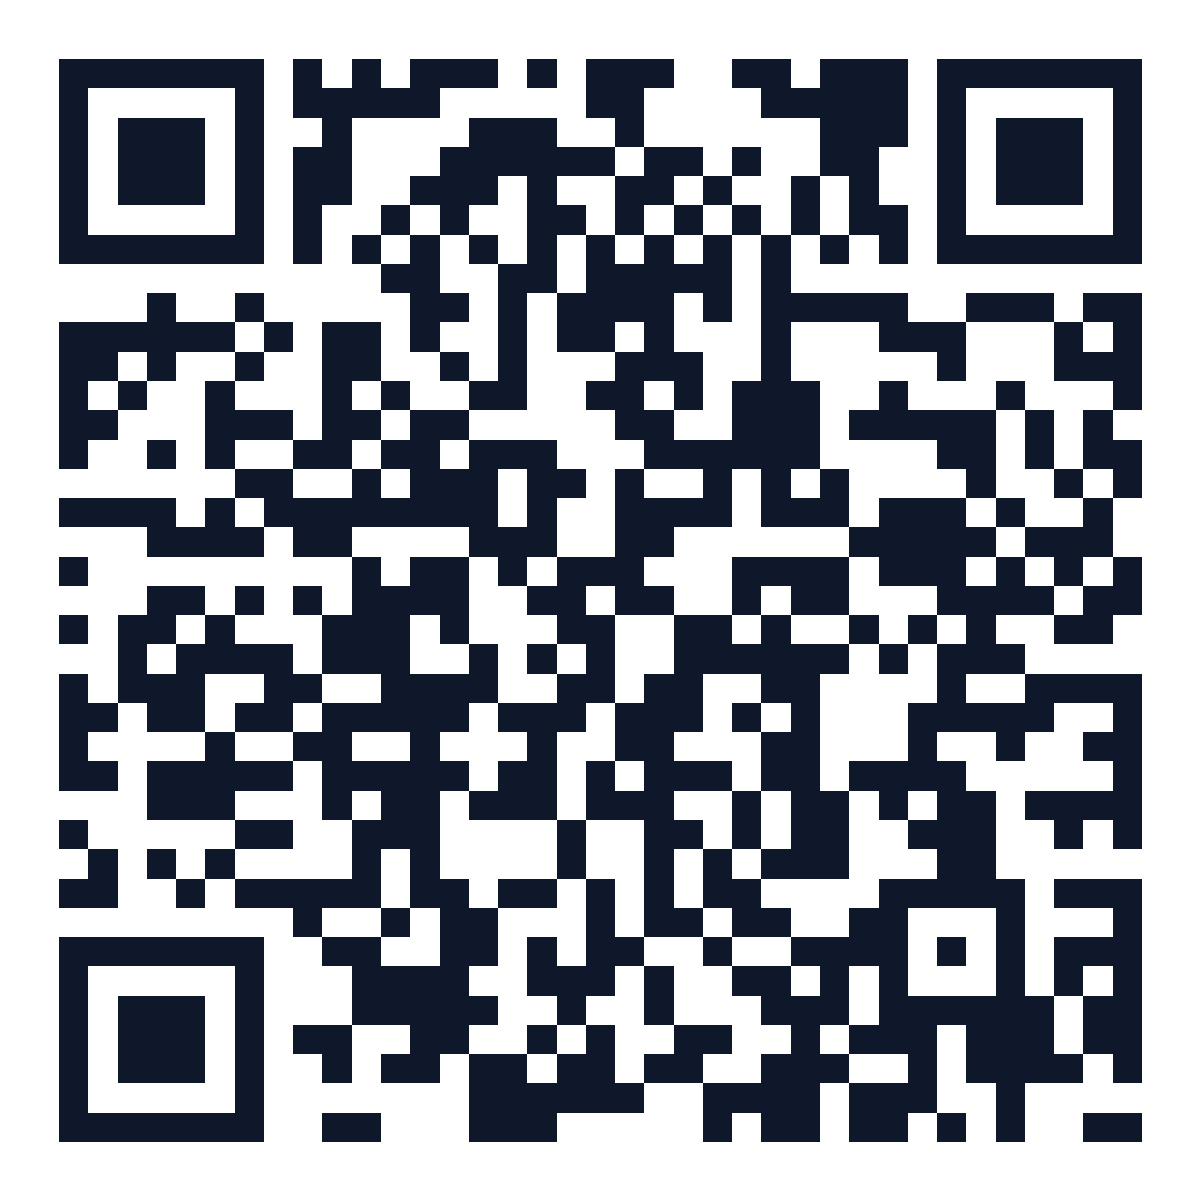
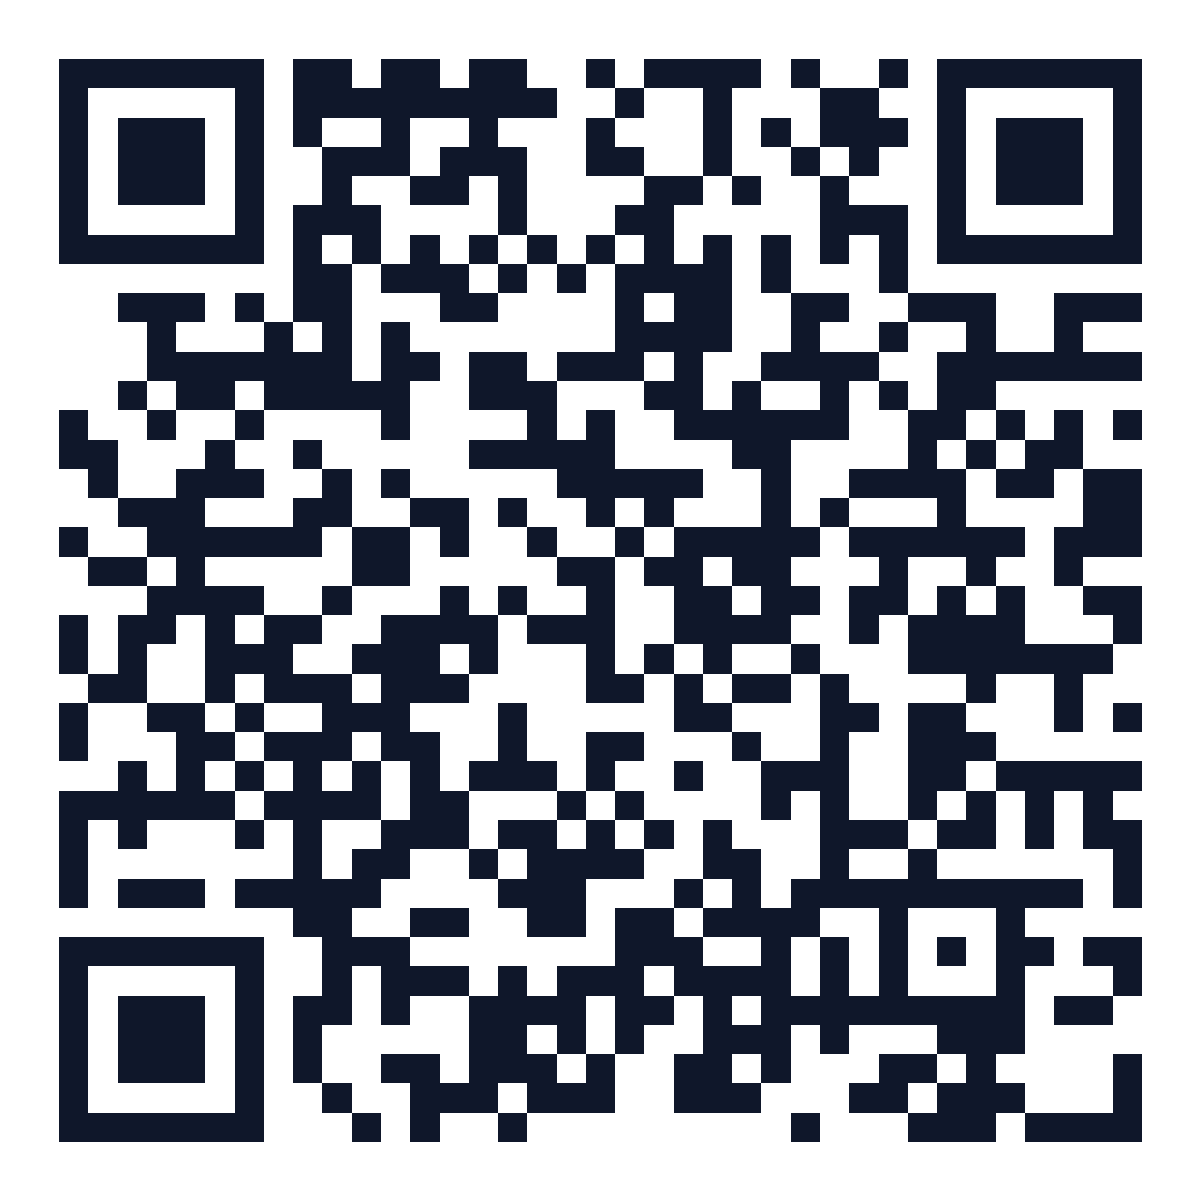
Update links and QR codes to elementaita-programs-2026.pages.dev

diff --git a/qr-print.html b/qr-print.html
@@ -50,7 +50,7 @@
       <div>
         <img src="assets/qr/wyde-qr.png" alt="WYDE QR Code" class="stand-qr" />
         <p class="stand-instructions">📲 Scan to View Online Program</p>
-        <p class="stand-url">https://oslocenter-kenya-programs.pages.dev/wyde.html</p>
+        <p class="stand-url">https://elementaita-programs-2026.pages.dev/wyde</p>
       </div>
       <div class="stand-footer">
         The Oslo Center (TOC) & KIC · WYDE Political Parties / ENoP / European Union
@@ -66,7 +66,7 @@
       <div>
         <img src="assets/qr/ewip-qr.png" alt="EWIP QR Code" class="stand-qr" />
         <p class="stand-instructions">📲 Scan to View Online Program</p>
-        <p class="stand-url">https://oslocenter-kenya-programs.pages.dev/ewip.html</p>
+        <p class="stand-url">https://elementaita-programs-2026.pages.dev/ewip</p>
       </div>
       <div class="stand-footer">
         The Oslo Center (TOC) & KIC · Empowering Women in Politics

diff --git a/ewip.html b/ewip.html
@@ -147,7 +147,7 @@
         <div class="qr-preview-box">
           <img id="modal-qr-img" class="qr-image-display" src="assets/qr/ewip-qr.png" alt="EWIP QR Code" />
           <p class="qr-title">Scan to View EWIP Kenya Program</p>
-          <p class="qr-url-text" id="modal-qr-url">https://oslocenter-kenya-programs.pages.dev/ewip.html</p>
+          <p class="qr-url-text" id="modal-qr-url">https://elementaita-programs-2026.pages.dev/ewip</p>
         </div>
         <div class="qr-actions-grid">
           <a id="btn-download-qr-png" class="btn-primary" href="assets/qr/ewip-qr.png" download="ewip-program-qr.png" style="background:#c2410c;">

diff --git a/wyde.html b/wyde.html
@@ -148,7 +148,7 @@
         <div class="qr-preview-box">
           <img id="modal-qr-img" class="qr-image-display" src="assets/qr/wyde-qr.png" alt="WYDE QR Code" />
           <p class="qr-title">Scan to View WYDE Youth Program</p>
-          <p class="qr-url-text" id="modal-qr-url">https://oslocenter-kenya-programs.pages.dev/wyde.html</p>
+          <p class="qr-url-text" id="modal-qr-url">https://elementaita-programs-2026.pages.dev/wyde</p>
         </div>
         <div class="qr-actions-grid">
           <a id="btn-download-qr-png" class="btn-primary" href="assets/qr/wyde-qr.png" download="wyde-program-qr.png" style="background:#0284c7;">

diff --git a/README.md b/README.md
@@ -8,10 +8,10 @@ Hosted and organized by **The Oslo Center (TOC)** with support from the **Christ
 
 ## 🌐 Live Online Programs & Links
 
-- **Main Hub & Portal**: [https://oslocenter-kenya-programs.pages.dev/](https://oslocenter-kenya-programs.pages.dev/)
-- **WYDE Youth Program**: [https://oslocenter-kenya-programs.pages.dev/wyde.html](https://oslocenter-kenya-programs.pages.dev/wyde.html)
-- **EWIP Kenya Program**: [https://oslocenter-kenya-programs.pages.dev/ewip.html](https://oslocenter-kenya-programs.pages.dev/ewip.html)
-- **Printable Table Standees & QR Signs**: [https://oslocenter-kenya-programs.pages.dev/qr-print.html](https://oslocenter-kenya-programs.pages.dev/qr-print.html)
+- **Main Hub & Portal**: [https://elementaita-programs-2026.pages.dev/](https://elementaita-programs-2026.pages.dev/)
+- **WYDE Youth Program**: [https://elementaita-programs-2026.pages.dev/wyde](https://elementaita-programs-2026.pages.dev/wyde)
+- **EWIP Kenya Program**: [https://elementaita-programs-2026.pages.dev/ewip](https://elementaita-programs-2026.pages.dev/ewip)
+- **Printable Table Standees & QR Signs**: [https://elementaita-programs-2026.pages.dev/qr-print.html](https://elementaita-programs-2026.pages.dev/qr-print.html)
 - **GitHub Pages Fallback**: [https://pizzel.github.io/elementaita-programs-2026/](https://pizzel.github.io/elementaita-programs-2026/)
 
 ---
